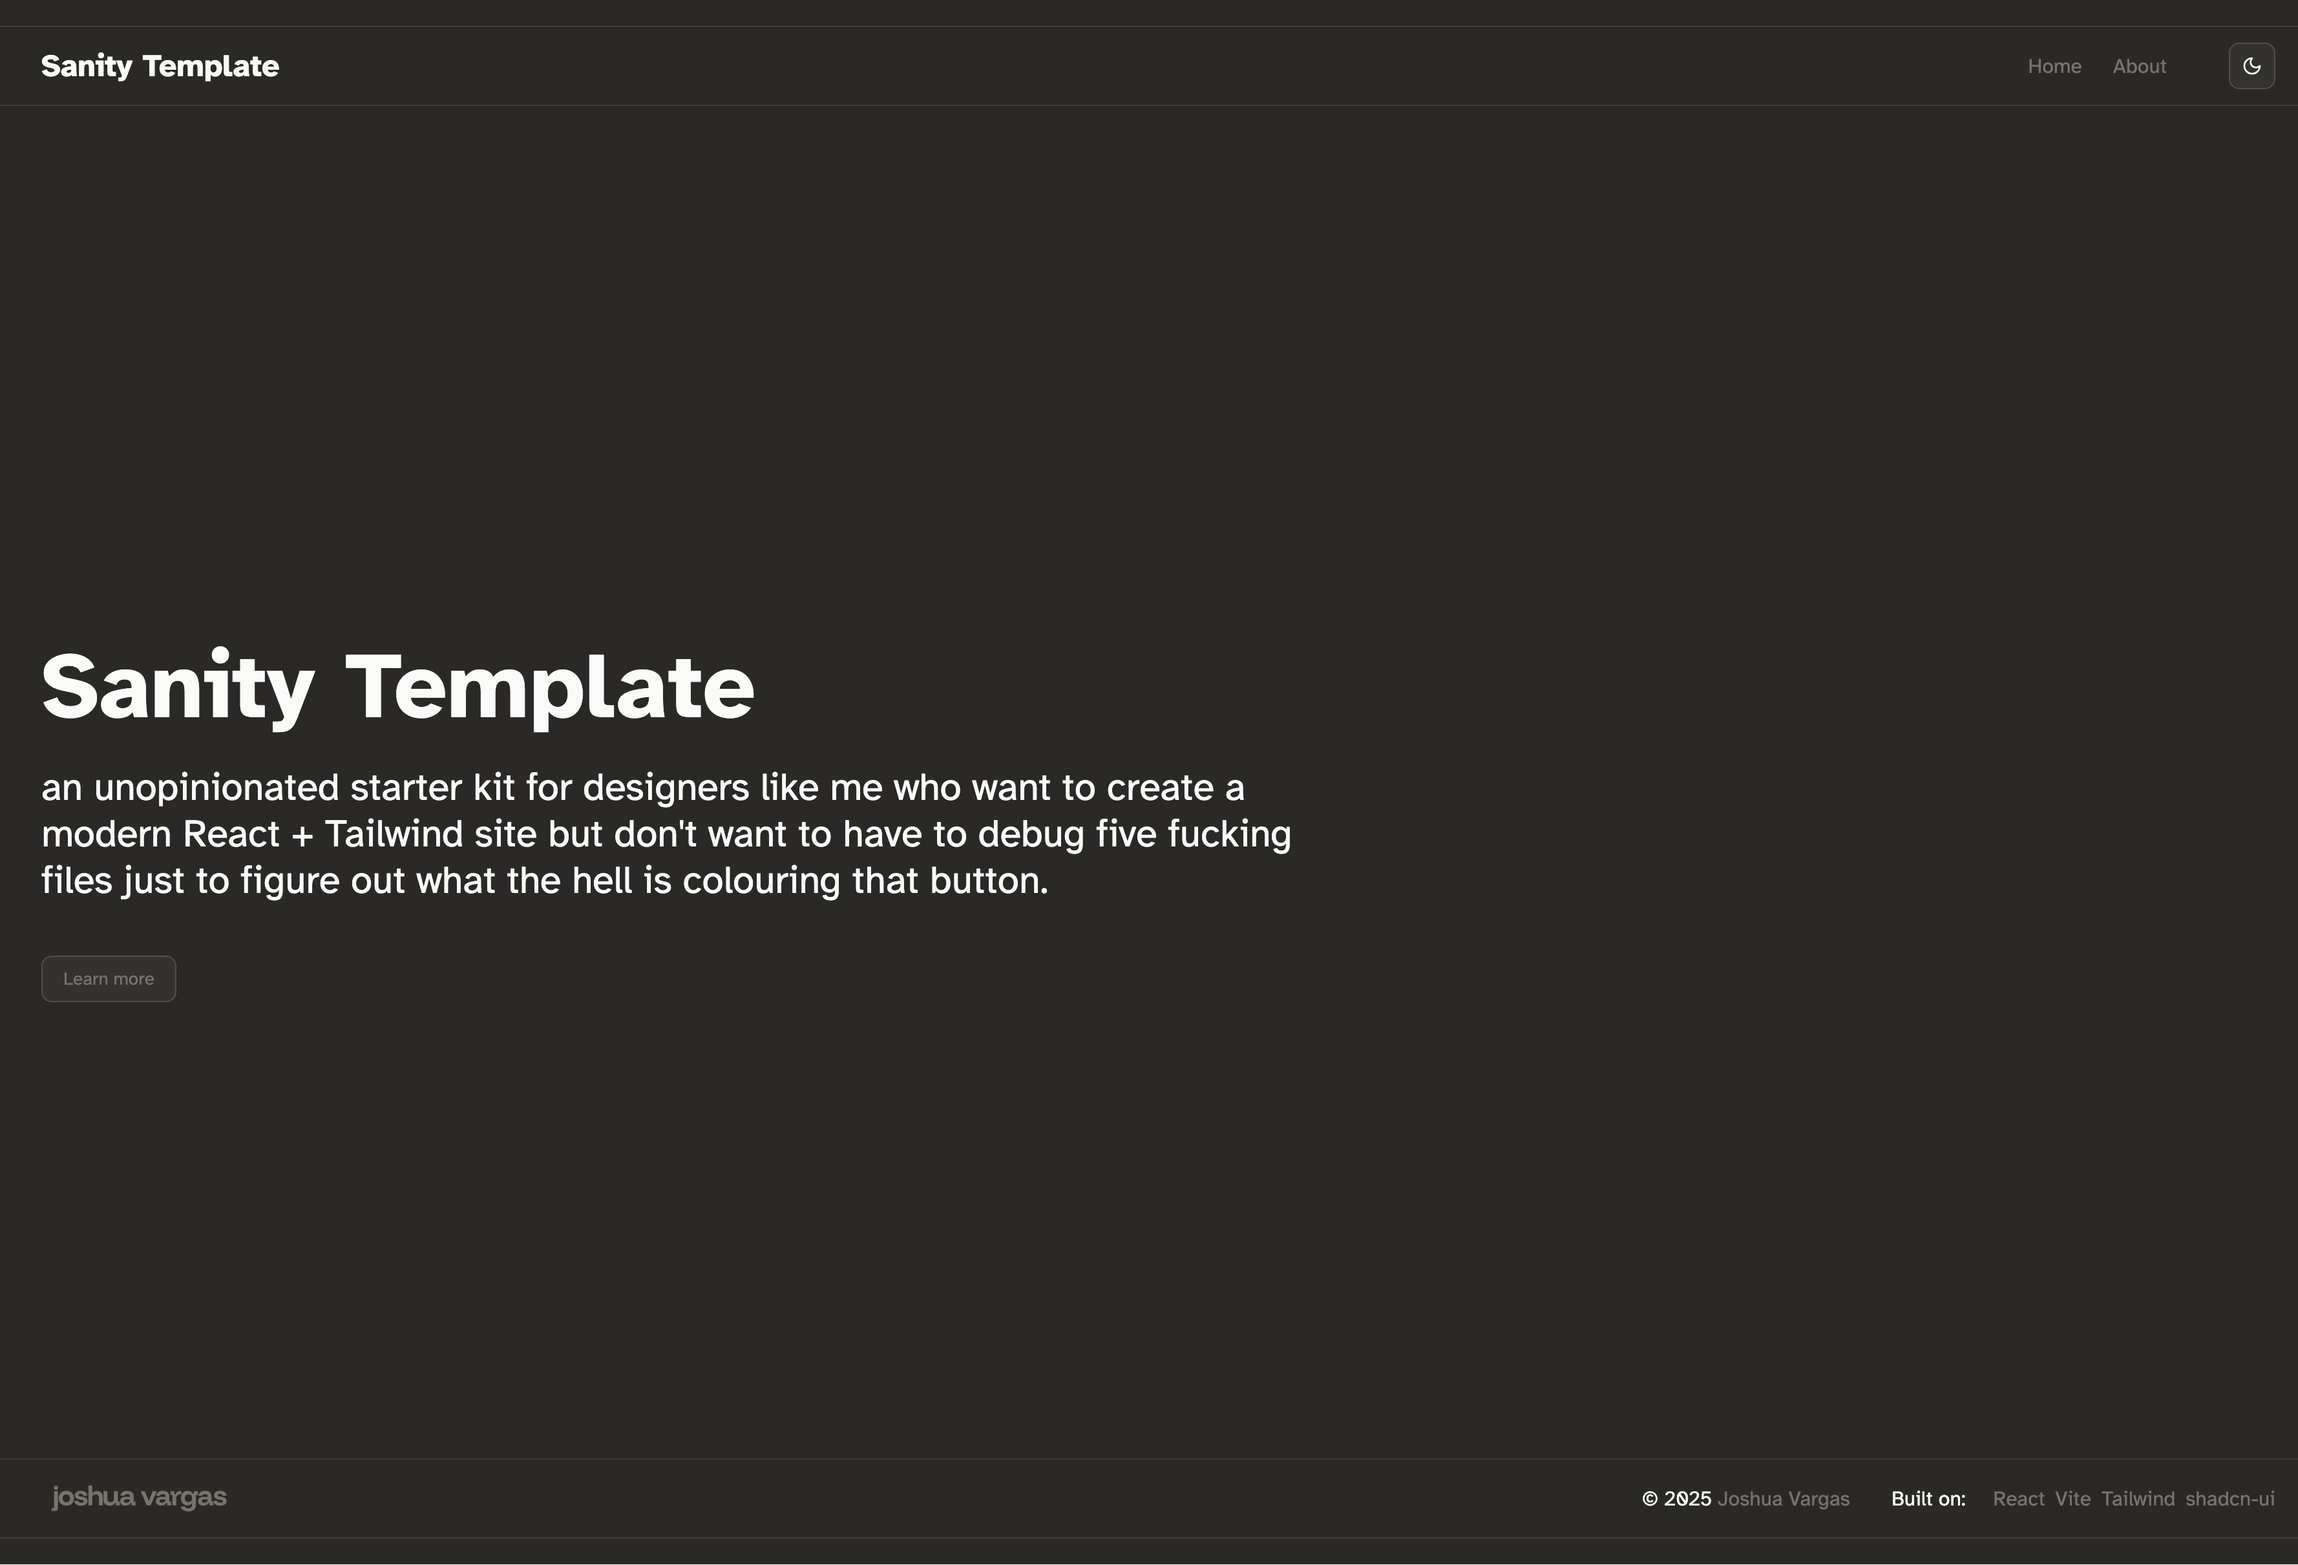
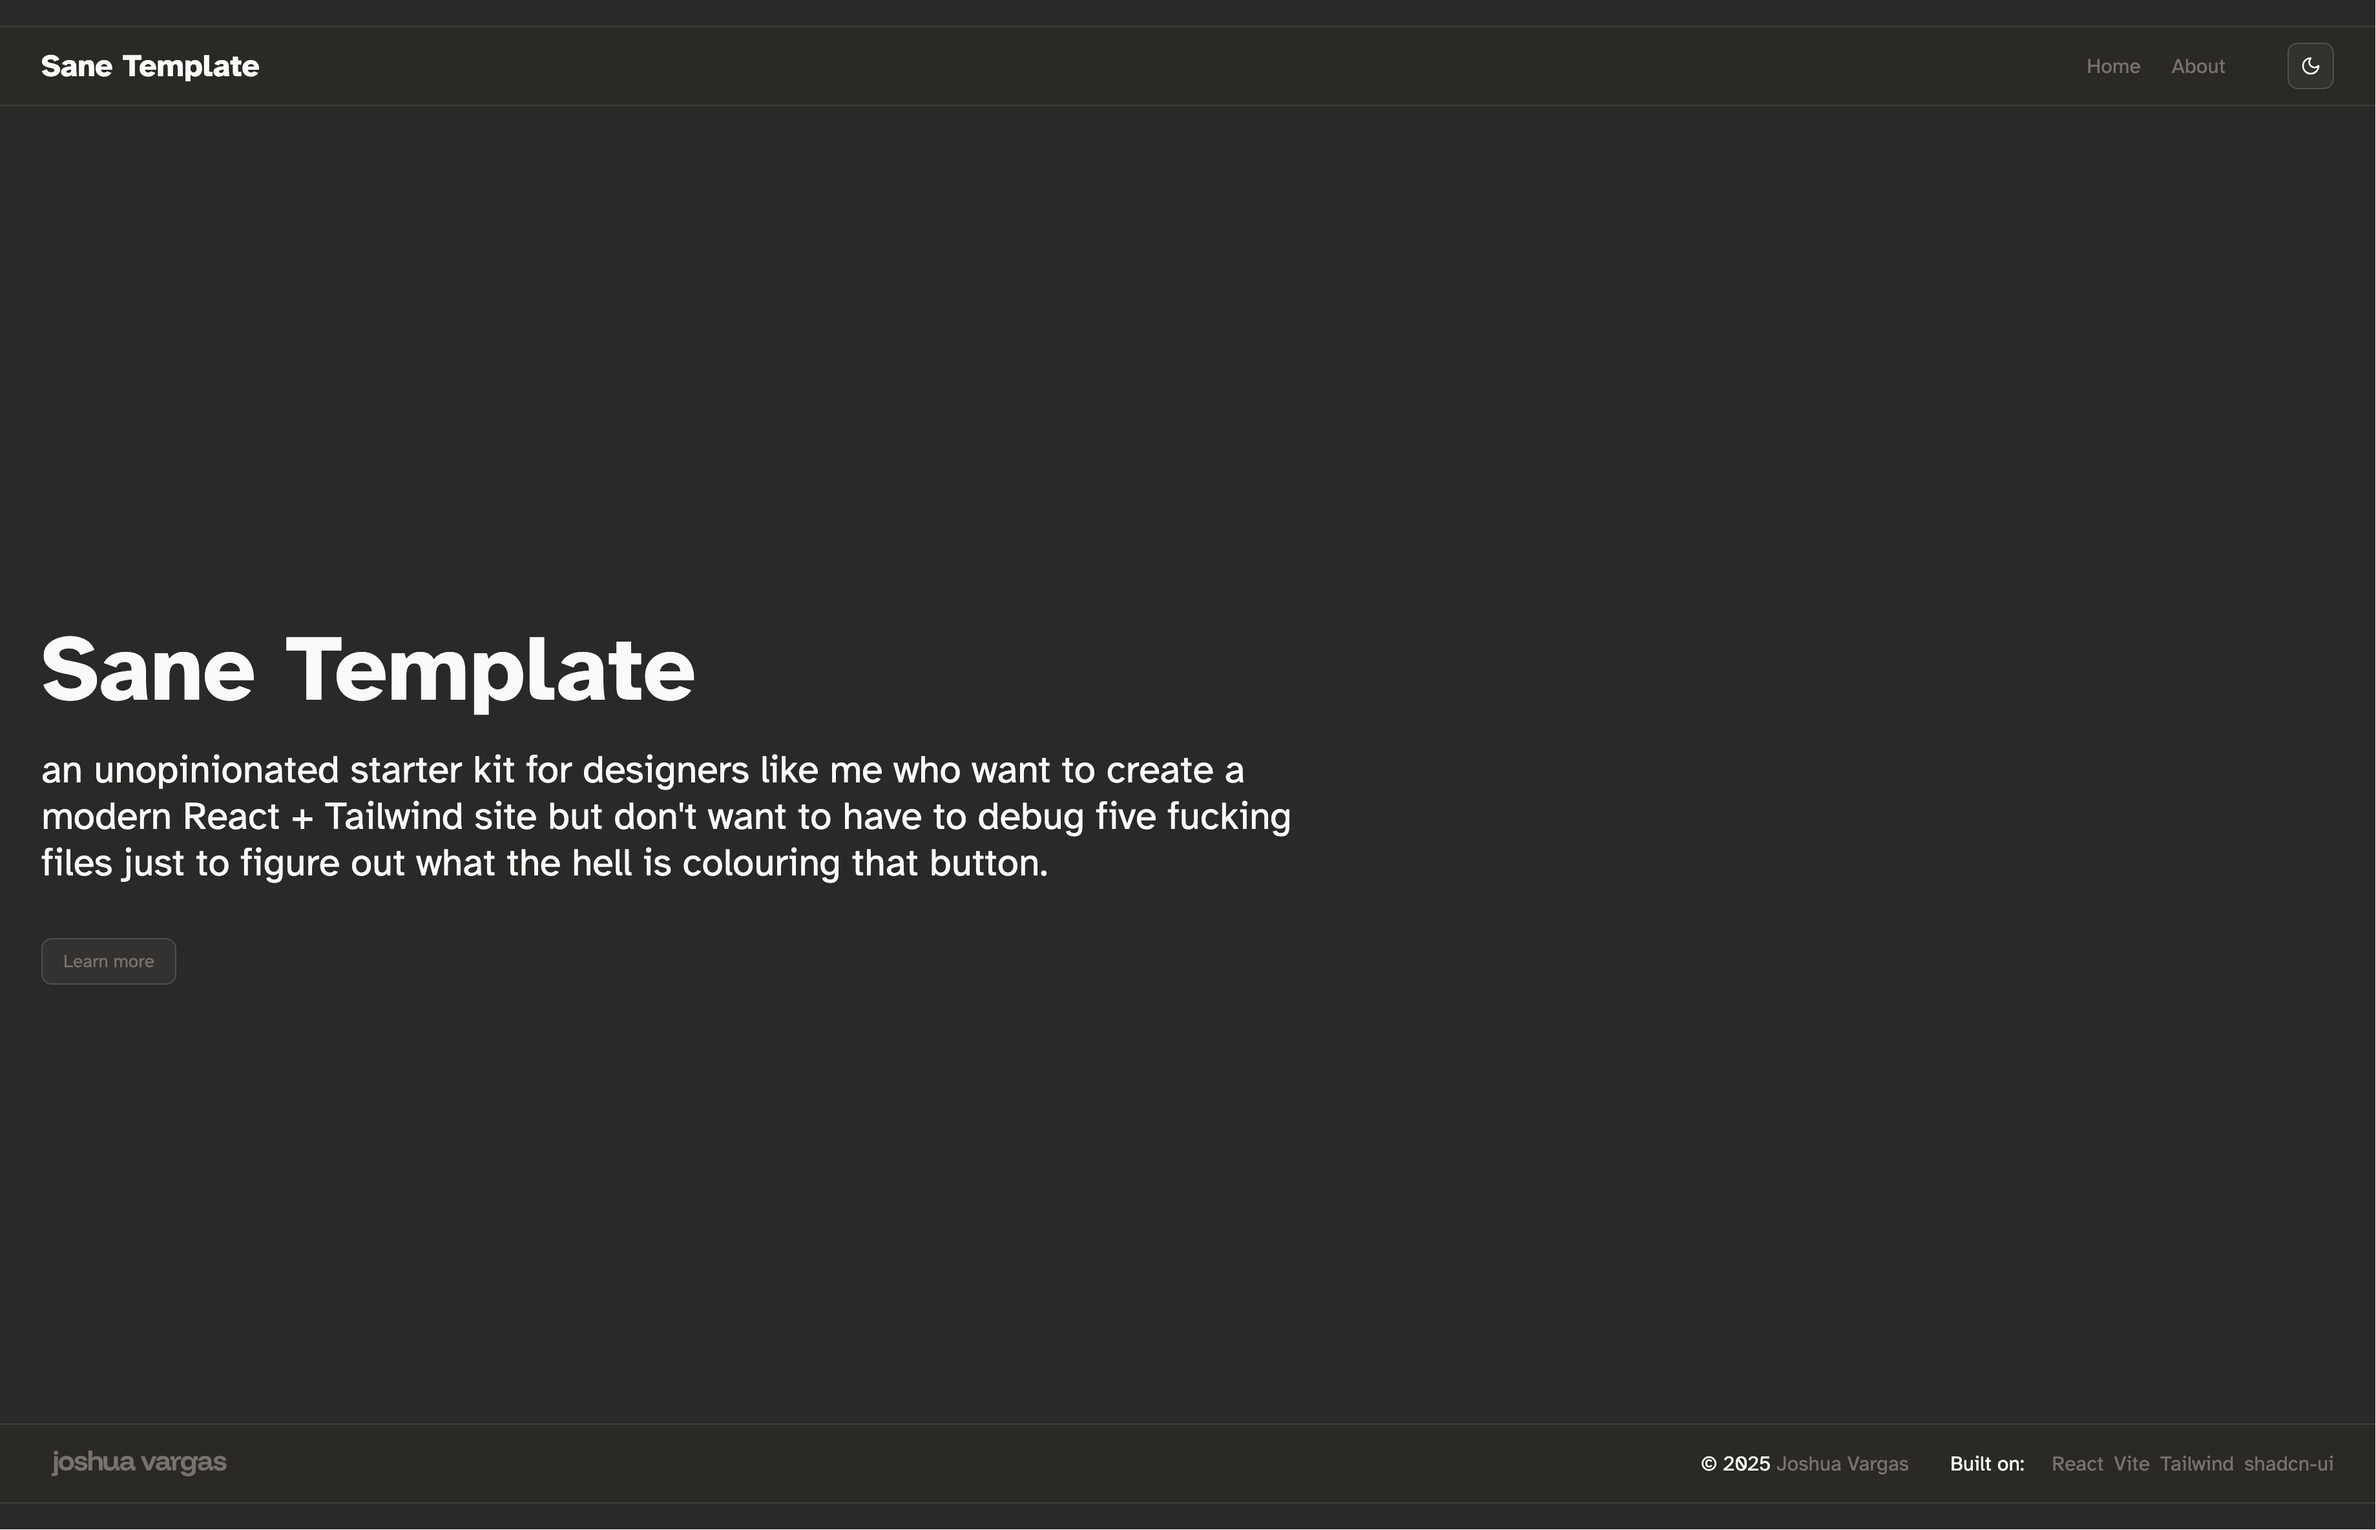
It has come to my attention that Sanity is a content management / delivery platform, so I renamed this project

diff --git a/src/pages/Home.tsx b/src/pages/Home.tsx
@@ -1,6 +1,6 @@
 /*******************************************************************************
  * 
-  Sanity___________________________________________________github.com/vargaseous
+  Sane_____________________________________________________github.com/vargaseous
 
   Home.tsx
   Home page layout.
@@ -14,7 +14,7 @@ export default function Home() {
   return (
       <div className="flex flex-col items-left justify-center min-h-screen px-8 space-y-6 z-10">
         <h1 className="text-5xl lg:text-7xl font-bold font-sans mt-15 md:text-left">
-          Sanity Template
+          Sane Template
         </h1>
         <p className="text-2xl lg:text-3xl font-sans md:text-left sm:text-center max-w-250 mb-10">
           an unopinionated starter kit for designers like me who want to create

diff --git a/src/components/navbar.tsx b/src/components/navbar.tsx
@@ -1,6 +1,6 @@
 /*******************************************************************************
  * 
-  Sanity___________________________________________________github.com/vargaseous
+  Sane_____________________________________________________github.com/vargaseous
 
   navbar.tsx
   Navigation bar component. This is fixed on all pages.
@@ -30,7 +30,7 @@ export function Navbar() {
             to="/"
             className="md:text-lg lg:text-2xl font-semibold text-foreground"
           >
-            Sanity Template
+            Sane Template
           </Link>
         </div>
 

diff --git a/src/App.css b/src/App.css
@@ -1,6 +1,6 @@
 /*******************************************************************************
  * 
-  Sanity___________________________________________________github.com/vargaseous
+  Sane_____________________________________________________github.com/vargaseous
 
   App.css
   Styling that will be applied on the App.tsx content.

diff --git a/src/components/footer.tsx b/src/components/footer.tsx
@@ -1,6 +1,6 @@
 /*******************************************************************************
  * 
-  Sanity___________________________________________________github.com/vargaseous
+  Sane_____________________________________________________github.com/vargaseous
 
   footer.tsx
   Footer bar component. This is fixed on all pages.

diff --git a/src/main.tsx b/src/main.tsx
@@ -1,6 +1,6 @@
 /*******************************************************************************
  * 
-  Sanity___________________________________________________github.com/vargaseous
+  Sane_____________________________________________________github.com/vargaseous
 
   main.tsx
   The key entry point for the React website.

diff --git a/src/index.css b/src/index.css
@@ -5,7 +5,7 @@
 
 /*******************************************************************************
  * 
-  Sanity___________________________________________________github.com/vargaseous
+  Sane_____________________________________________________github.com/vargaseous
 
   index.css
   The home of your global CSS styles.

diff --git a/index.html b/index.html
@@ -4,7 +4,7 @@
     <meta charset="UTF-8" />
     <link rel="icon" type="image/svg+xml" href="/icon.svg" />
     <meta name="viewport" content="width=device-width, initial-scale=1.0" />
-    <title>Sanity Template</title>
+    <title>Sane Template</title>
   </head>
   <body>
     <div id="root"></div>

diff --git a/src/pages/About.tsx b/src/pages/About.tsx
@@ -1,6 +1,6 @@
 /*******************************************************************************
  * 
-  Sanity___________________________________________________github.com/vargaseous
+  Sane___________________________________________________github.com/vargaseous
 
   About.tsx
   About page layout.

diff --git a/src/App.tsx b/src/App.tsx
@@ -1,6 +1,6 @@
 /*******************************************************************************
 
-  Sanity Template
+  Sane Template
 
   an unopinionated starter kit
   for designers like me who want to use React + Vite + Tailwind + shadcn-ui in dark mode

diff --git a/README.md b/README.md
@@ -1,4 +1,4 @@
-# Sanity Template
+# Sane Template
 
 ![Screenshot](screenshot.png)
 
@@ -12,6 +12,7 @@ an unopinionated starter kit for designers like me who want to create a modern R
 
 | Date       | Name         | Remarks                                 |
 |------------|--------------|-----------------------------------------|
+| 2025-06-26 | Jojo Vargas  | It has come to my attention that Sanity is a content management / delivery platform, so I renamed this project |
 | 2025-06-25 | Jojo Vargas  | Initial project setup and documentation |
 
 ## About
